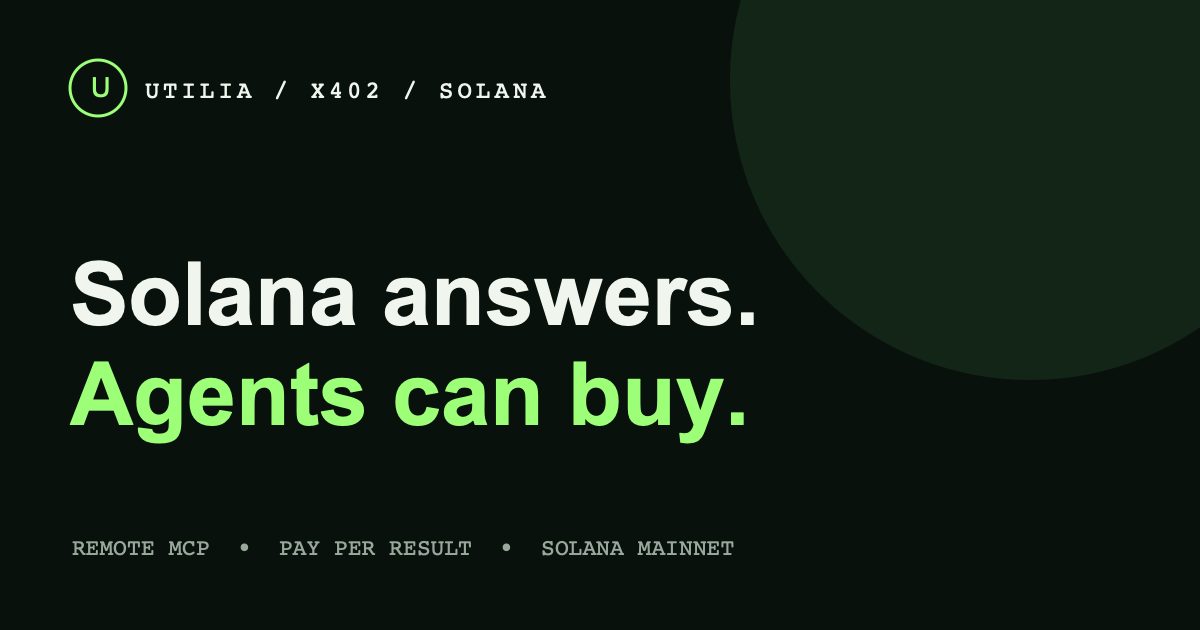
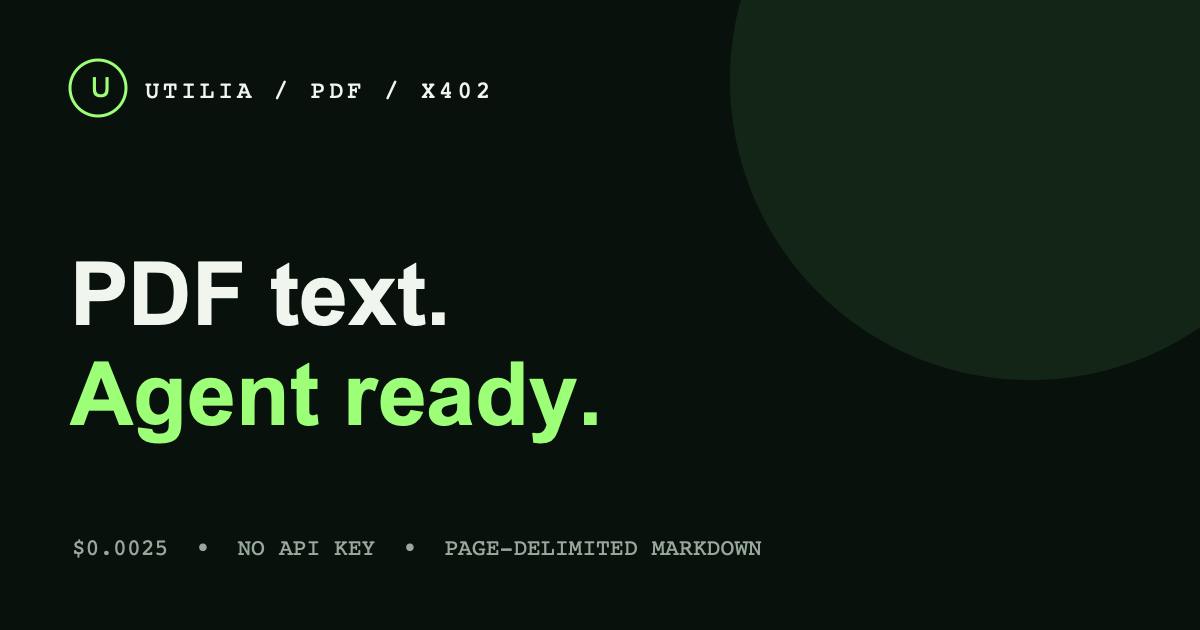
Lead Utilia with paid PDF conversion

diff --git a/public/index.html b/public/index.html
@@ -5,10 +5,10 @@
     <meta name="viewport" content="width=device-width, initial-scale=1" />
     <meta name="theme-color" content="#08110c" />
     <meta name="color-scheme" content="dark" />
-    <title>Utilia — Live Solana priority fees for transaction agents</title>
+    <title>Utilia — PDF to Markdown and live Solana tools for agents</title>
     <meta
       name="description"
-      content="Timestamped, account-localized Solana priority-fee bids for bots. $0.002 per x402 call, with no API key."
+      content="Convert public PDFs to page-delimited Markdown or fetch live Solana transaction intelligence. Pay per call with x402 USDC; no API key."
     />
     <link rel="canonical" href="https://utilia.ink/" />
     <link rel="icon" href="/icon.svg" type="image/svg+xml" />
@@ -32,11 +32,11 @@
     <meta property="og:url" content="https://utilia.ink/" />
     <meta
       property="og:title"
-      content="Utilia — Live Solana priority fees for transaction agents"
+      content="Utilia — PDF to Markdown and live Solana tools for agents"
     />
     <meta
       property="og:description"
-      content="Five fresh priority-fee samples per hour with a hard $0.05 spend cap. No account or API key."
+      content="Public PDF in, page-delimited Markdown out for $0.0025 USDC. No account or API key."
     />
     <meta
       property="og:image"
@@ -46,11 +46,11 @@
     <meta name="twitter:site" content="@utiliax402" />
     <meta
       name="twitter:title"
-      content="Utilia — Live Solana priority fees for transaction agents"
+      content="Utilia — PDF to Markdown and live Solana tools for agents"
     />
     <meta
       name="twitter:description"
-      content="Timestamped, account-localized fee bids at $0.002 per x402 call."
+      content="Public PDF to agent-ready Markdown for $0.0025 per x402 call."
     />
     <meta
       name="twitter:image"
@@ -60,7 +60,7 @@
       {
         "@context": "https://schema.org",
         "@type": "SoftwareApplication",
-        "name": "Utilia Solana Priority Fee Feed",
+        "name": "Utilia PDF and Solana Agent Tools",
         "applicationCategory": "DeveloperApplication",
         "operatingSystem": "Any",
         "url": "https://utilia.ink",
@@ -75,7 +75,7 @@
           "https://8004market.io/agent/solana/mainnet-beta/1462",
           "https://x402arena.gg"
         ],
-        "description": "Live, timestamped Solana priority-fee quantiles for autonomous transaction agents.",
+        "description": "Pay-per-conversion PDF-to-Markdown plus live Solana transaction intelligence for autonomous agents.",
         "offers": {
           "@type": "AggregateOffer",
           "lowPrice": "0.002",
@@ -93,7 +93,7 @@
       </a>
       <nav aria-label="Main navigation">
         <a href="#tools">Tools</a>
-        <a href="#install">Install</a>
+        <a href="#install">PDF converter</a>
         <a href="#mcp">MCP</a>
         <a href="https://api.utilia.ink/openapi.json">Docs</a>
         <a class="nav-cta" href="https://api.utilia.ink/healthz">
@@ -107,20 +107,18 @@
       <section class="hero" aria-labelledby="hero-title">
         <div class="hero-copy">
           <p class="eyebrow">
-            <span>SOLANA</span>
+            <span>PDF TO MARKDOWN</span>
             <span>X402</span>
             <span>REMOTE MCP</span>
           </p>
-          <h1 id="hero-title">
-            A live fee bid.<br /><em>Before your bot sends.</em>
-          </h1>
+          <h1 id="hero-title">PDF text.<br /><em>Agent ready.</em></h1>
           <p class="hero-lede">
-            Timestamped network-wide or account-localized priority-fee
-            quantiles. $0.002 per result. No account. No API key.
+            Public PDF in. Page-delimited Markdown, metadata, and source digest
+            out. $0.0025 per result. No account. No API key.
           </p>
           <div class="hero-actions">
             <a class="button button-primary" href="#install">
-              Start the fee feed <span aria-hidden="true">↓</span>
+              Convert a PDF <span aria-hidden="true">↓</span>
             </a>
             <a
               class="button button-secondary"
@@ -137,12 +135,12 @@
             <span class="terminal-live">mainnet</span>
           </div>
           <div class="terminal-body">
-            <p><span class="prompt">›</span> call solana_priority_fees</p>
+            <p><span class="prompt">›</span> call pdf_to_markdown</p>
             <p class="muted">payment_required</p>
             <dl>
               <div>
                 <dt>amount</dt>
-                <dd>0.002 USDC</dd>
+                <dd>0.0025 USDC</dd>
               </div>
               <div>
                 <dt>network</dt>
@@ -153,20 +151,20 @@
                 <dd>x402 exact</dd>
               </div>
             </dl>
-            <p><span class="prompt">›</span> authorize max 0.01 USDC</p>
+            <p><span class="prompt">›</span> authorize 0.0025 USDC</p>
             <p class="success">✓ paid · executed · settled</p>
             <p class="json">
-              { "observedAt": "now",<br />&nbsp; "mediumMicroLamports": 0,<br />&nbsp;
-              "sampleCount": 150 }
+              { "pages": 12,<br />&nbsp; "markdown": "# Document…",<br />&nbsp;
+              "sourceSha256": "9f14…" }
             </p>
           </div>
         </aside>
       </section>
 
       <section class="trust-strip" aria-label="Product facts">
-        <div><strong>5/hour</strong><span>default fee cadence</span></div>
-        <div><strong>$0.002</strong><span>entry price</span></div>
-        <div><strong>$0.05</strong><span>hard watcher cap</span></div>
+        <div><strong>$0.0025</strong><span>per PDF conversion</span></div>
+        <div><strong>100</strong><span>maximum pages</span></div>
+        <div><strong>5</strong><span>paid agent tools</span></div>
         <div><strong>0</strong><span>signups or API keys</span></div>
       </section>
 
@@ -176,12 +174,12 @@
         aria-labelledby="install-title"
       >
         <div class="install-copy">
-          <p class="kicker">ONE-COMMAND BOT FEED</p>
-          <h2 id="install-title">Five calls per hour.<br />Then it stops.</h2>
+          <p class="kicker">ONE-COMMAND PDF CONVERTER</p>
+          <h2 id="install-title">Public PDF in.<br />Markdown out.</h2>
           <p>
-            The wallet-funded watcher emits JSONL immediately and every 12
-            minutes. It stops after 25 calls, limiting Utilia spend to $0.05.
-            Press Ctrl-C to stop sooner.
+            The wallet-funded client extracts up to 100 pages and returns
+            page-delimited Markdown, document metadata, page count, and a source
+            SHA-256 digest for verification.
           </p>
           <div class="package-links">
             <a
@@ -227,19 +225,19 @@
         </div>
         <div class="install-card">
           <div class="code-label">
-            <span>terminal</span><span>budget-capped JSONL feed</span>
+            <span>terminal</span><span>exact $0.0025 x402 payment</span>
           </div>
           <pre><code><span class="comment"># Use a dedicated low-balance agent wallet</span>
 export SOLANA_KEYPAIR_PATH=\
 /absolute/path/to/agent-wallet.json
 
-npx -y utilia-solana-agent watch-fees \
-  --every 12m \
-  --max-calls 25</code></pre>
+npx -y utilia-solana-agent pdf-to-markdown \
+  https://example.com/document.pdf \
+  --max-pages 50</code></pre>
           <div class="install-guardrails">
-            <span>✓ first result now</span>
-            <span>✓ 5 calls/hour</span>
-            <span>✓ $0.05 maximum</span>
+            <span>✓ one exact payment</span>
+            <span>✓ page provenance</span>
+            <span>✓ source digest</span>
           </div>
         </div>
       </section>
@@ -251,7 +249,7 @@ npx -y utilia-solana-agent watch-fees \
       >
         <div class="section-heading">
           <p class="kicker">THE PRODUCT</p>
-          <h2 id="tools-title">One proven feed. Four extra tools.</h2>
+          <h2 id="tools-title">One PDF converter. Four Solana tools.</h2>
           <p>
             Every route advertises its exact USDC price. Failed operations
             cancel settlement.
@@ -261,6 +259,18 @@ npx -y utilia-solana-agent watch-fees \
           <article class="tool-card">
             <div class="tool-topline">
               <span class="tool-number">01</span
+              ><span class="price">$0.0025</span>
+            </div>
+            <h3>PDF to Markdown</h3>
+            <code><span>POST</span> /v1/pdf/to-markdown</code>
+            <p>
+              Convert a public or base64 PDF into page-delimited Markdown,
+              metadata, and a source digest.
+            </p>
+          </article>
+          <article class="tool-card">
+            <div class="tool-topline">
+              <span class="tool-number">02</span
               ><span class="price">$0.002</span>
             </div>
             <h3>Live priority fees</h3>
@@ -272,7 +282,7 @@ npx -y utilia-solana-agent watch-fees \
           </article>
           <article class="tool-card">
             <div class="tool-topline">
-              <span class="tool-number">02</span
+              <span class="tool-number">03</span
               ><span class="price">$0.004</span>
             </div>
             <h3>Transaction analysis</h3>
@@ -284,7 +294,7 @@ npx -y utilia-solana-agent watch-fees \
           </article>
           <article class="tool-card">
             <div class="tool-topline">
-              <span class="tool-number">03</span
+              <span class="tool-number">04</span
               ><span class="price">$0.008</span>
             </div>
             <h3>Preflight simulation</h3>
@@ -296,7 +306,7 @@ npx -y utilia-solana-agent watch-fees \
           </article>
           <article class="tool-card">
             <div class="tool-topline">
-              <span class="tool-number">04</span
+              <span class="tool-number">05</span
               ><span class="price">$0.006</span>
             </div>
             <h3>Token risk</h3>
@@ -304,18 +314,6 @@ npx -y utilia-solana-agent watch-fees \
             <p>
               Inspect authorities, Token-2022 controls, supply, and holder
               concentration.
-            </p>
-          </article>
-          <article class="tool-card">
-            <div class="tool-topline">
-              <span class="tool-number">05</span
-              ><span class="price">$0.0025</span>
-            </div>
-            <h3>PDF to Markdown</h3>
-            <code><span>POST</span> /v1/pdf/to-markdown</code>
-            <p>
-              Convert a public or base64 PDF into page-delimited Markdown,
-              metadata, and a source digest.
             </p>
           </article>
         </div>
@@ -328,7 +326,7 @@ npx -y utilia-solana-agent watch-fees \
           <p>
             Run the local npm bridge in any stdio MCP client. It discovers
             pricing, verifies the receiver and spend ceiling, signs USDC
-            locally, and returns structured Solana data.
+            locally, and returns structured document or Solana data.
           </p>
           <ul>
             <li><span>01</span> Streamable HTTP transport</li>
@@ -391,9 +389,10 @@ npx -y utilia-solana-agent watch-fees \
 
       <section class="closing" aria-labelledby="closing-title">
         <p class="kicker">BUILD THE LOOP</p>
-        <h2 id="closing-title">Observe. Bid. Build. Send.</h2>
+        <h2 id="closing-title">Link. Pay. Extract. Build.</h2>
         <p>
-          Give your transaction agent a live fee signal with a finite budget.
+          Give your agent clean document text without another account or API
+          key.
         </p>
         <div class="hero-actions">
           <a class="button button-primary" href="/llms.txt">Read agent guide</a>
@@ -410,7 +409,7 @@ npx -y utilia-solana-agent watch-fees \
       <div class="brand footer-brand">
         <span class="brand-mark" aria-hidden="true">U</span><span>UTILIA</span>
       </div>
-      <p>Machine-payable Solana intelligence.</p>
+      <p>Machine-payable PDF conversion and Solana intelligence.</p>
       <div class="footer-links">
         <a href="https://api.utilia.ink/openapi.json">OpenAPI</a>
         <a href="/llms.txt">llms.txt</a>

diff --git a/README.md b/README.md
@@ -1,8 +1,8 @@
-# Utilia Solana Priority Fee Feed
+# Utilia PDF and Solana Agent Tools
 
-[Utilia](https://utilia.ink) gives transaction agents a live, timestamped Solana
-priority-fee bid. Every call uses an exact x402 USDC payment on Solana mainnet. No
-account, subscription, or API key is required.
+[Utilia](https://utilia.ink) converts public PDFs to agent-ready Markdown and gives
+transaction agents live Solana intelligence. Every call uses an exact x402 USDC
+payment. No account, subscription, or API key is required.
 
 | Product                | HTTP route                       | MCP tool                      | Price   |
 | ---------------------- | -------------------------------- | ----------------------------- | ------- |
@@ -25,6 +25,14 @@ account, subscription, or API key is required.
 - x402 Arena: <https://x402arena.gg>
 
 ## Run the MCP buyer
+
+Convert a public PDF in one command:
+
+```sh
+SOLANA_KEYPAIR_PATH=/absolute/path/to/agent-wallet.json \
+  npx -y utilia-solana-agent pdf-to-markdown \
+  https://example.com/document.pdf --max-pages 50
+```
 
 ```sh
 cd examples